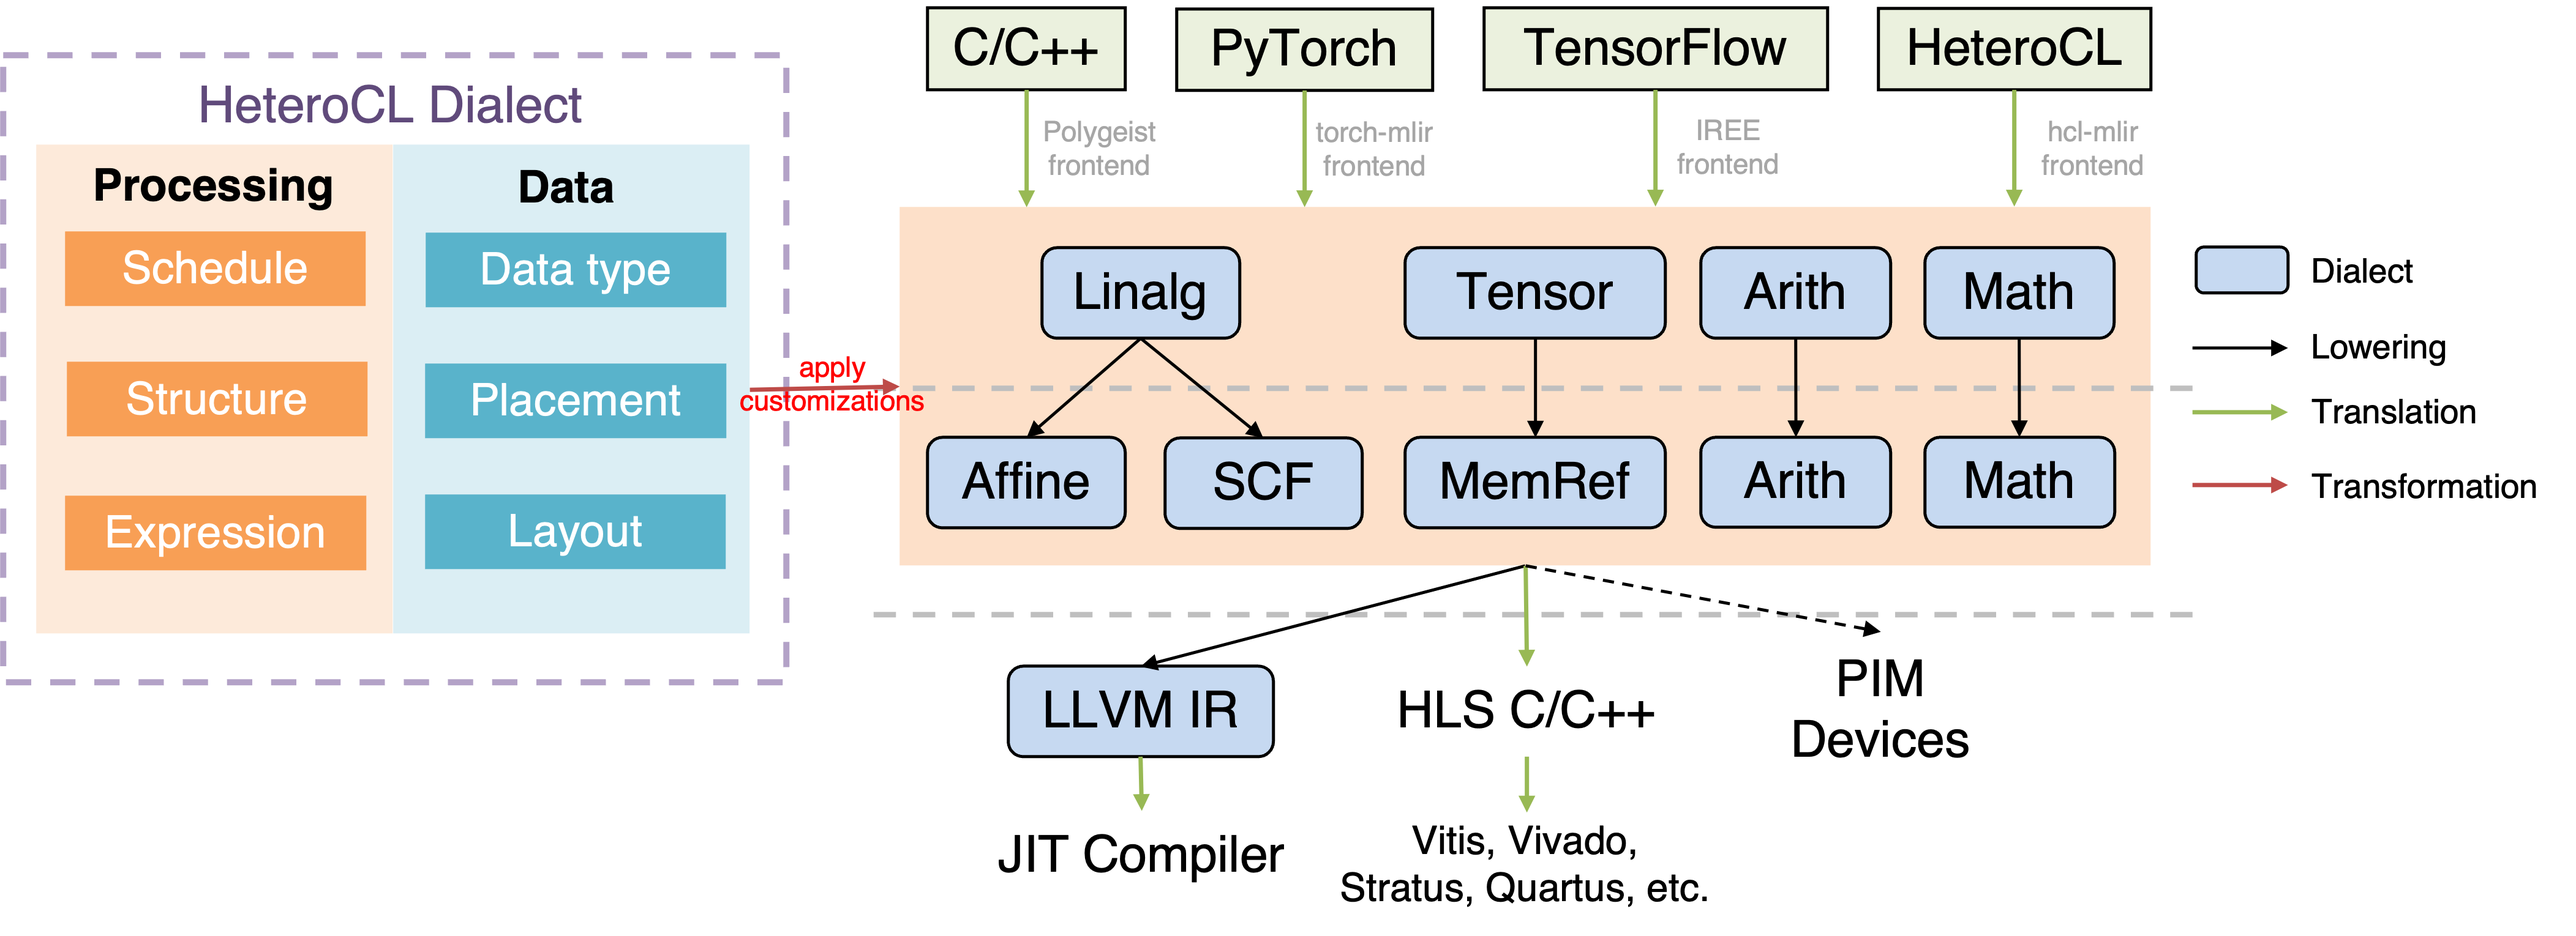
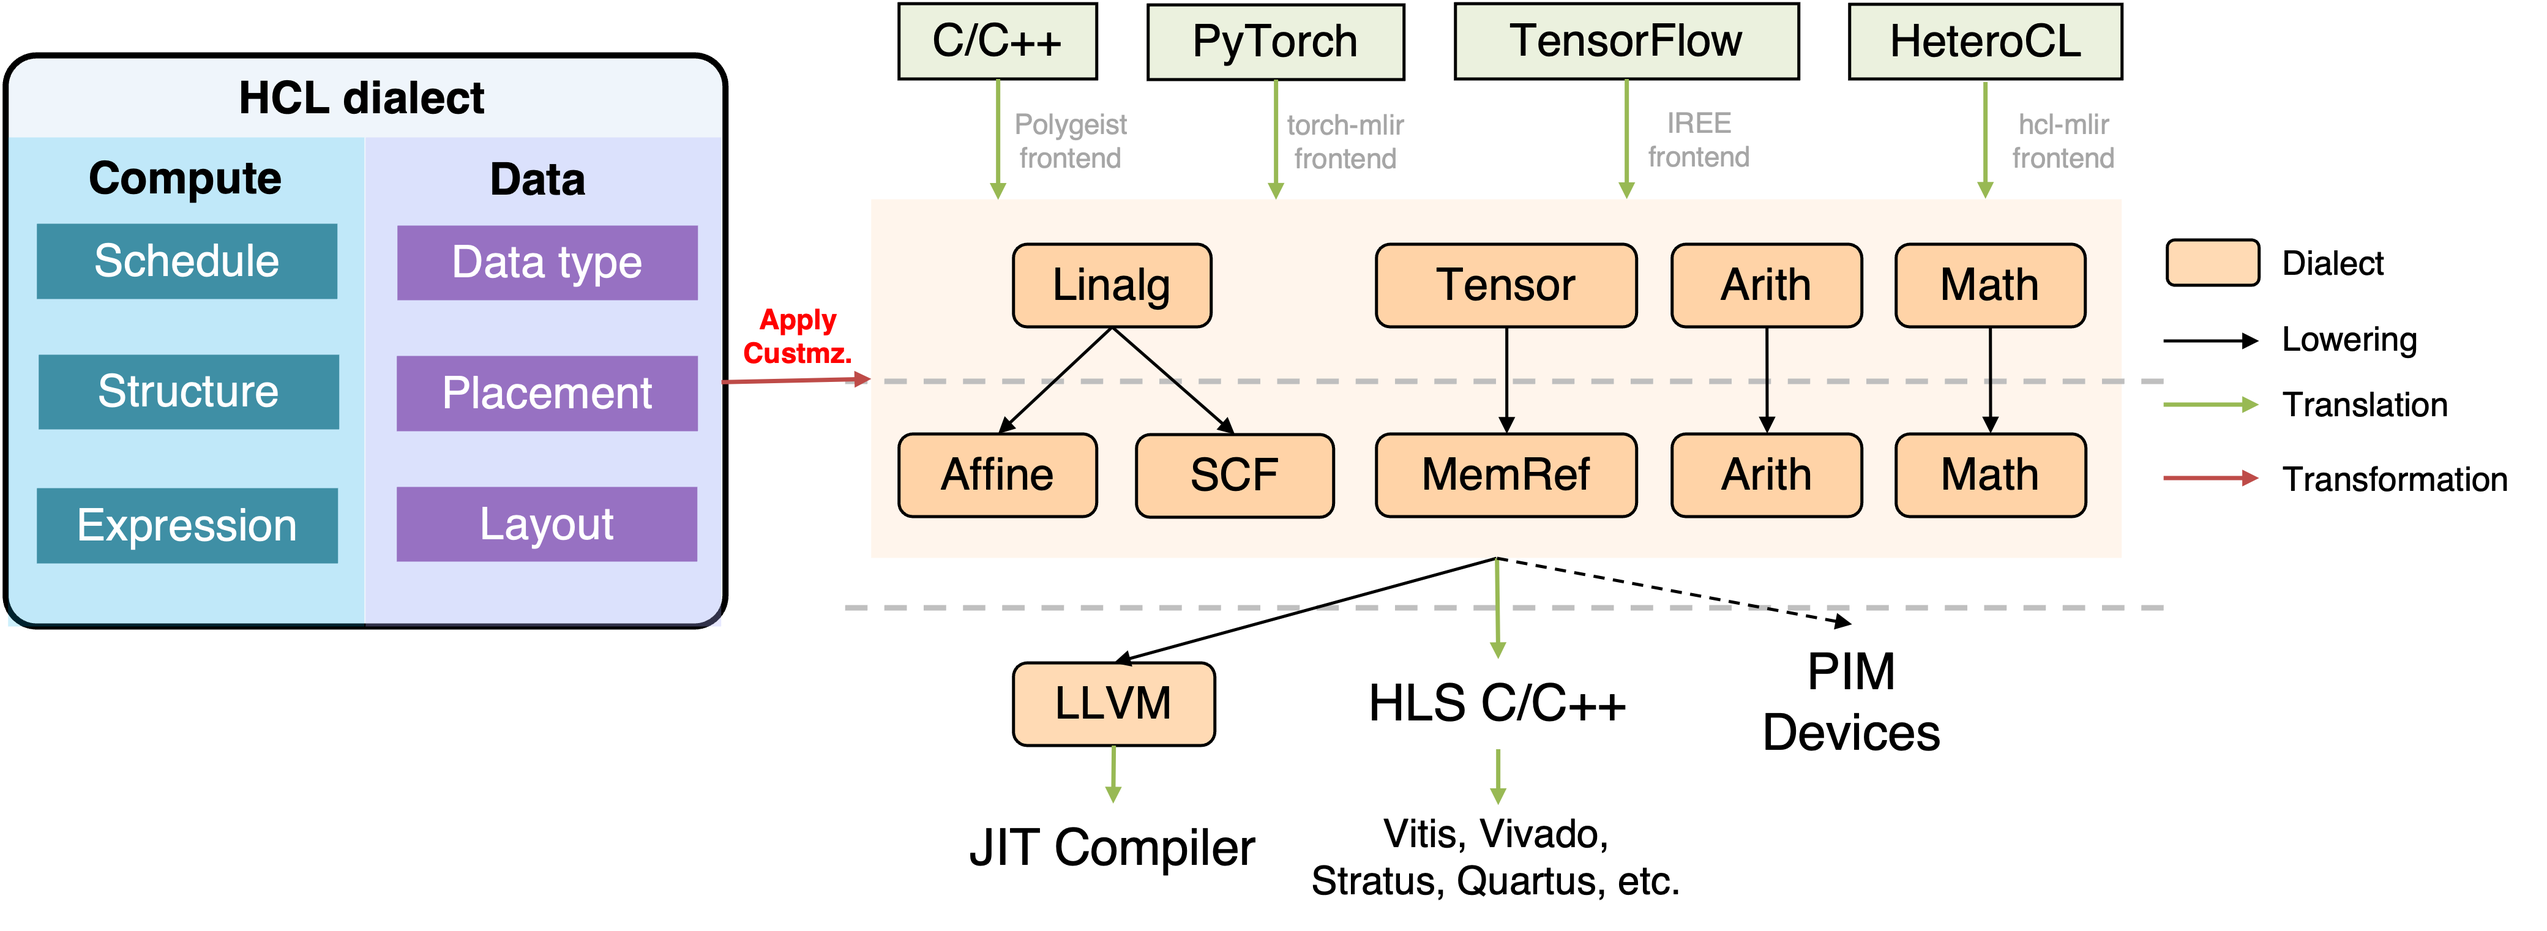
[Doc] Rename processing customization to compute customization (#181)
* [Doc] Processing -> Data in dialect_example.png

* [Doc] LLVM IR -> LLVM in dialect_overview.png

* [Doc] Update README

diff --git a/README.md b/README.md
@@ -7,7 +7,7 @@
 
 ![flow](docs/dialect_overview.png)
 
-HeteroCL dialect is an out-of-tree [MLIR](https://mlir.llvm.org/) dialect for accelerator design. HeteroCL dialect decouples algorithm from hardware customizations, and classifies them into processing and data customizations. The HeteroCL dialect is part of the [HeteroCL](https://github.com/cornell-zhang/heterocl) compilation flow. HeteroCL provides an end-to-end flow from Python to LLVM backend or C HLS FPGA backends. With HeteroCL, designers can explore tradeoffs with hardware customizations in a systematic manner and quickly obtain high-performance design with little manual effort.
+HeteroCL dialect is an out-of-tree [MLIR](https://mlir.llvm.org/) dialect for accelerator design. HeteroCL dialect decouples algorithm from hardware customizations, and classifies them into compute and data customizations. The HeteroCL dialect is part of the [HeteroCL](https://github.com/cornell-zhang/heterocl) compilation flow. HeteroCL provides an end-to-end flow from Python to LLVM backend or C HLS FPGA backends. With HeteroCL, designers can explore tradeoffs with hardware customizations in a systematic manner and quickly obtain high-performance design with little manual effort.
 
 
 ## Building
